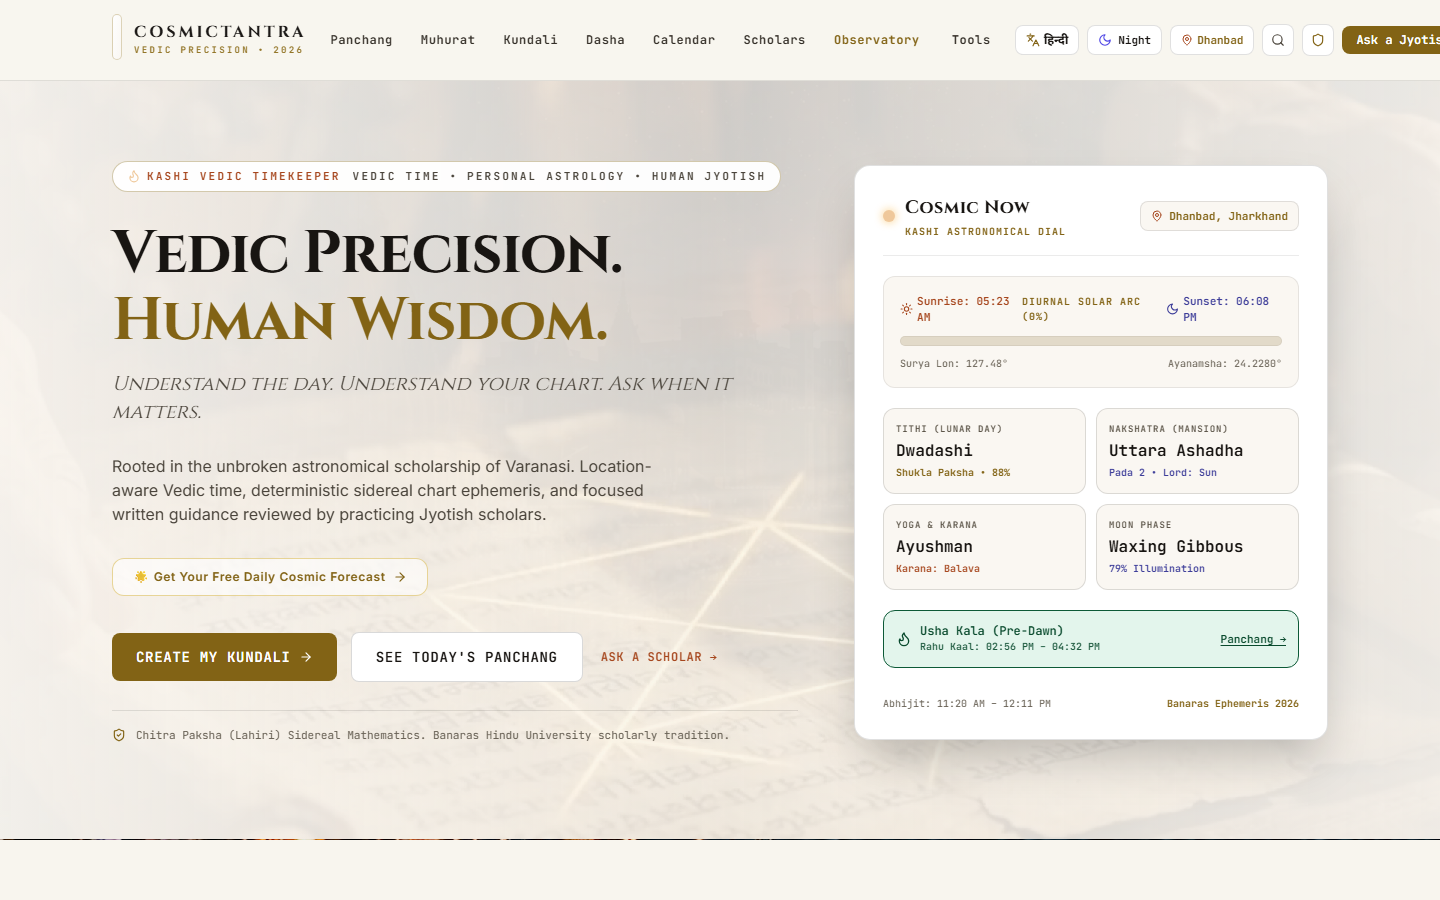
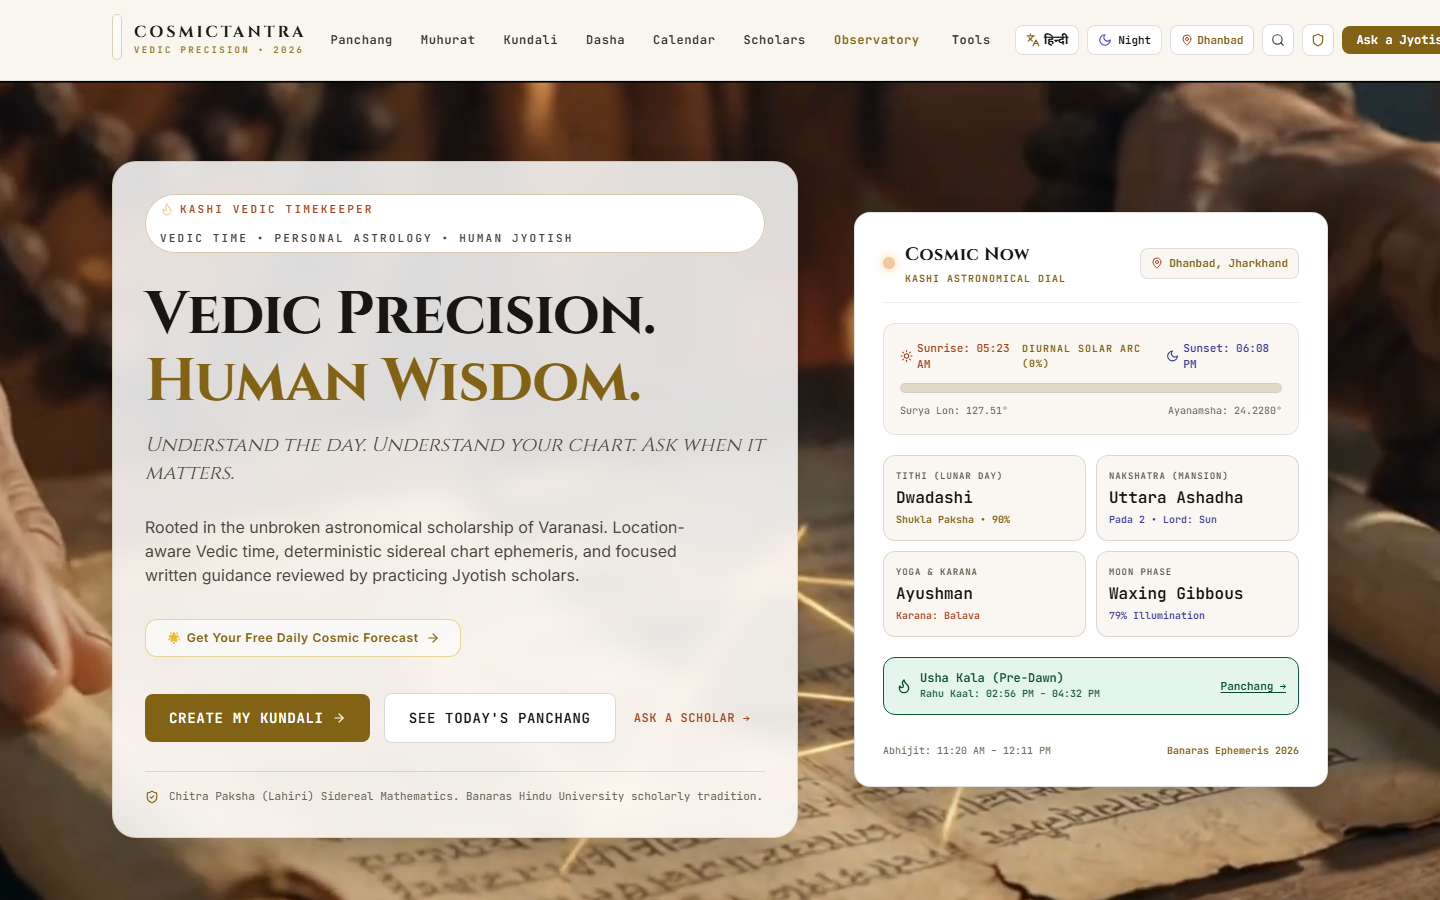
fix: remove gradient overlays from hero video background for clean crisp playback

diff --git a/src/components/HeroSection.jsx b/src/components/HeroSection.jsx
@@ -17,21 +17,19 @@ export default function HeroSection({
   const t = TRANSLATIONS[lang]?.hero || TRANSLATIONS.en.hero;
 
   return (
-    <section className="relative pt-24 pb-16 sm:pt-28 lg:pt-20 lg:pb-24 border-b border-black/[0.1] dark:border-white/[0.08] hero-varanasi-bg transition-colors duration-250">
-      {/* Background Video Layer with Poster Fallback */}
+    <section className="relative pt-24 pb-16 sm:pt-28 lg:pt-20 lg:pb-24 border-b border-black/[0.1] dark:border-white/[0.08] transition-colors duration-250">
+      {/* Clean Background Video Layer */}
       <div className="absolute inset-0 overflow-hidden pointer-events-none z-0">
         <video
           autoPlay
           loop
           muted
           playsInline
-          className="w-full h-full object-cover object-center opacity-65 dark:opacity-55 transition-opacity"
+          className="w-full h-full object-cover object-center"
           poster="/varanasi-ghats-hero.jpg"
         >
           <source src="/kashi-hero-video.mp4" type="video/mp4" />
         </video>
-        {/* Pandit-Ready Dawn Illumination (Sacred Banaras Morning Light) */}
-        <div className="absolute inset-0 bg-gradient-to-b from-[#FFFDF9] via-[#FAF7F2] to-[#F5EEDC] dark:via-[#060709]/60 dark:to-[#060709]/95 lg:bg-gradient-to-r lg:from-[#FFFDF9]/95 lg:via-[#FAF7F2]/75 lg:to-[#F5EEDC]/90 lg:dark:from-[#060709]/95 lg:dark:via-[#060709]/70 lg:dark:to-[#060709]/92" />
       </div>
 
       <div className="max-w-7xl mx-auto px-4 sm:px-6 lg:px-8 relative z-10 w-full">
@@ -39,8 +37,8 @@ export default function HeroSection({
         {/* Varanasi Editorial Split Horizon */}
         <div className="grid grid-cols-1 lg:grid-cols-12 gap-10 lg:gap-14 items-center">
           
-          {/* Left Column: Serious Vedic Product Front */}
-          <div className="lg:col-span-7 space-y-5 sm:space-y-7">
+          {/* Left Column: Serious Vedic Product Front with Glassmorphic Legibility */}
+          <div className="lg:col-span-7 space-y-5 sm:space-y-7 p-6 sm:p-8 rounded-3xl bg-white/85 dark:bg-[#07080C]/85 backdrop-blur-md border border-[#8E6F1D]/20 dark:border-[#D4AF37]/30 shadow-2xl">
             
             {/* Sacred Kashi Sanskrit Micro-Label */}
             <div className="inline-flex flex-wrap items-center gap-2 sm:gap-3 px-3.5 py-1.5 rounded-full border border-[#826315]/35 dark:border-[#D4AF37]/50 bg-[#FFFFFF]/95 dark:bg-[#0D0F1E]/95 backdrop-blur-md text-[10px] sm:text-[11px] font-mono-data uppercase tracking-[0.16em] sm:tracking-[0.2em] text-[#826315] dark:text-[#F0C968] shadow-xs font-bold max-w-full">
